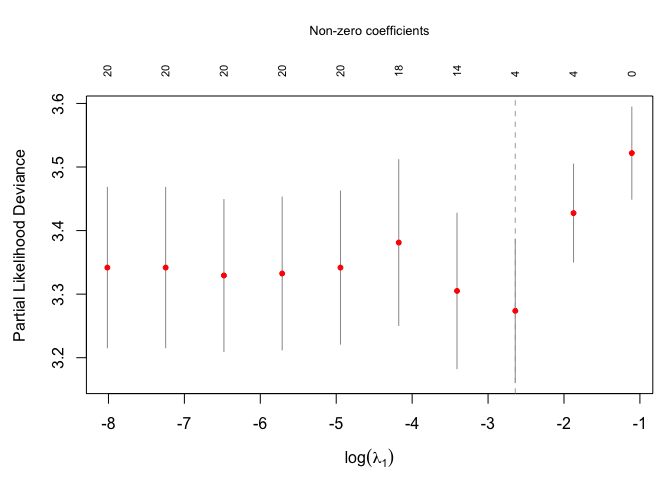
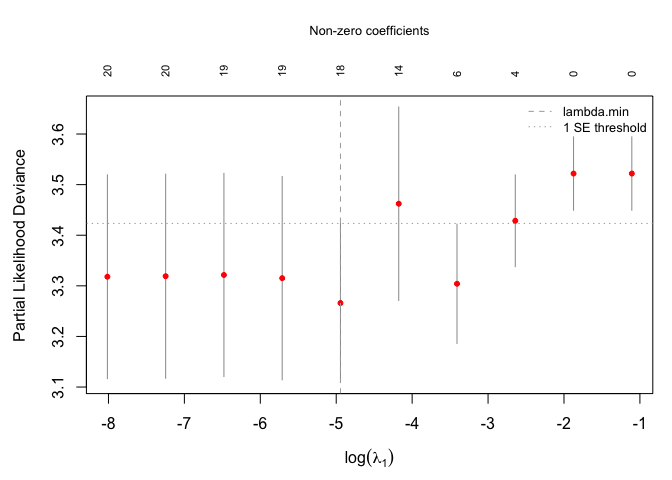
🐛 fix: stabilize ADMM residual convergence

diff --git a/src/threshold_prox.cpp b/src/threshold_prox.cpp
@@ -25,10 +25,10 @@ arma::vec threshold_prox(const arma::vec& y, double vartheta, std::string penalt
       x[i] = soft_threshold(y[i], lambda / vartheta);
     }
   } else if (penalty == "mcp") {
-    double const_val = 1 - 1 / (gamma * vartheta - 1);
+    double denom = 1.0 - 1.0 / (gamma * vartheta);
     for (int i = 0; i < n; i++) {
       if (std::abs(y[i]) <= lambda * gamma) {
-        x[i] = soft_threshold(y[i], lambda / vartheta) * const_val;
+        x[i] = soft_threshold(y[i], lambda / vartheta) / denom;
       } else {
         x[i] = y[i];
       }

diff --git a/README.md b/README.md
@@ -59,17 +59,17 @@ summary(fit)
 #>   n=500, number of events=422
 #> 
 #>       coef exp(coef) se(coef)     z Pr(>|z|)    
-#> X1 0.34587   1.41322  0.05340 6.477 9.34e-11 ***
-#> X2 0.35601   1.42762  0.05403 6.589 4.44e-11 ***
-#> X3 0.34327   1.40956  0.05396 6.362 1.99e-10 ***
-#> X4 0.32658   1.38622  0.05155 6.335 2.37e-10 ***
+#> X1 0.35055   1.41985  0.05352 6.550 5.74e-11 ***
+#> X2 0.35887   1.43171  0.05418 6.623 3.51e-11 ***
+#> X3 0.34424   1.41091  0.05394 6.381 1.76e-10 ***
+#> X4 0.32870   1.38916  0.05164 6.365 1.95e-10 ***
 #> ---
 #> Signif. codes:  0 '***' 0.001 '**' 0.01 '*' 0.05 '.' 0.1 ' ' 1
 #>    exp(coef) exp(-coef) lower .95 upper .95
-#> X1 1.4132    0.7076     1.2728    1.5691   
-#> X2 1.4276    0.7005     1.2842    1.5871   
-#> X3 1.4096    0.7094     1.2681    1.5668   
-#> X4 1.3862    0.7214     1.2530    1.5336   
+#> X1 1.4198    0.7043     1.2785    1.5769   
+#> X2 1.4317    0.6985     1.2875    1.5921   
+#> X3 1.4109    0.7088     1.2694    1.5683   
+#> X4 1.3892    0.7199     1.2554    1.5371   
 #> 
 #> Feature structure:
 #>   Prior transfer: X1, X2
@@ -105,49 +105,49 @@ summary(fit_mtl)
 #>   n=500, number of events=422, df=6
 #> 
 #>          coef exp(coef) se(coef)      z Pr(>|z|)    
-#> X1:1  0.33359   1.39597  0.05163  6.462 1.04e-10 ***
-#> X2:1  0.35172   1.42151  0.05306  6.629 3.38e-11 ***
-#> X3:1  0.34057   1.40575  0.05333  6.386 1.70e-10 ***
-#> X4:1  0.31741   1.37356  0.04987  6.365 1.95e-10 ***
-#> X1:2  0.90022   2.46016  0.08584 10.487  < 2e-16 ***
-#> X2:2  0.90614   2.47476  0.08396 10.793  < 2e-16 ***
-#> X3:2  0.34057   1.40575  0.05333  6.386 1.70e-10 ***
-#> X4:2  0.31741   1.37356  0.04987  6.365 1.95e-10 ***
-#> X1:3 -0.23305   0.79212  0.06983 -3.338 0.000845 ***
-#> X2:3 -0.20271   0.81652  0.07850 -2.582 0.009812 ** 
-#> X3:3  0.34057   1.40575  0.05333  6.386 1.70e-10 ***
-#> X4:3  0.31741   1.37356  0.04987  6.365 1.95e-10 ***
-#> X1:4  0.90022   2.46016  0.08584 10.487  < 2e-16 ***
-#> X2:4  0.90614   2.47476  0.08396 10.793  < 2e-16 ***
-#> X3:4  0.34057   1.40575  0.05333  6.386 1.70e-10 ***
-#> X4:4  0.31741   1.37356  0.04987  6.365 1.95e-10 ***
-#> X1:5 -0.23305   0.79212  0.06983 -3.338 0.000845 ***
-#> X2:5 -0.20271   0.81652  0.07850 -2.582 0.009812 ** 
-#> X3:5  0.34057   1.40575  0.05333  6.386 1.70e-10 ***
-#> X4:5  0.31741   1.37356  0.04987  6.365 1.95e-10 ***
+#> X1:1  0.34795   1.41617  0.05190  6.705 2.02e-11 ***
+#> X2:1  0.36103   1.43481  0.05351  6.746 1.52e-11 ***
+#> X3:1  0.34505   1.41206  0.05345  6.456 1.08e-10 ***
+#> X4:1  0.32770   1.38777  0.05014  6.536 6.32e-11 ***
+#> X1:2  0.94883   2.58268  0.08678 10.934  < 2e-16 ***
+#> X2:2  0.96503   2.62487  0.08449 11.421  < 2e-16 ***
+#> X3:2  0.34505   1.41206  0.05345  6.456 1.08e-10 ***
+#> X4:2  0.32770   1.38777  0.05014  6.536 6.32e-11 ***
+#> X1:3 -0.25292   0.77653  0.06953 -3.637 0.000275 ***
+#> X2:3 -0.24297   0.78430  0.07961 -3.052 0.002272 ** 
+#> X3:3  0.34505   1.41206  0.05345  6.456 1.08e-10 ***
+#> X4:3  0.32770   1.38777  0.05014  6.536 6.32e-11 ***
+#> X1:4  0.94883   2.58268  0.08678 10.934  < 2e-16 ***
+#> X2:4  0.96503   2.62487  0.08449 11.421  < 2e-16 ***
+#> X3:4  0.34505   1.41206  0.05345  6.456 1.08e-10 ***
+#> X4:4  0.32770   1.38777  0.05014  6.536 6.32e-11 ***
+#> X1:5 -0.25292   0.77653  0.06953 -3.637 0.000275 ***
+#> X2:5 -0.24297   0.78430  0.07961 -3.052 0.002272 ** 
+#> X3:5  0.34505   1.41206  0.05345  6.456 1.08e-10 ***
+#> X4:5  0.32770   1.38777  0.05014  6.536 6.32e-11 ***
 #> ---
 #> Signif. codes:  0 '***' 0.001 '**' 0.01 '*' 0.05 '.' 0.1 ' ' 1
 #>      exp(coef) exp(-coef) lower .95 upper .95
-#> X1:1 1.3960    0.7163     1.2616    1.5446   
-#> X2:1 1.4215    0.7035     1.2811    1.5773   
-#> X3:1 1.4057    0.7114     1.2662    1.5606   
-#> X4:1 1.3736    0.7280     1.2457    1.5146   
-#> X1:2 2.4602    0.4065     2.0792    2.9109   
-#> X2:2 2.4748    0.4041     2.0993    2.9174   
-#> X3:2 1.4057    0.7114     1.2662    1.5606   
-#> X4:2 1.3736    0.7280     1.2457    1.5146   
-#> X1:3 0.7921    1.2624     0.6908    0.9083   
-#> X2:3 0.8165    1.2247     0.7001    0.9523   
-#> X3:3 1.4057    0.7114     1.2662    1.5606   
-#> X4:3 1.3736    0.7280     1.2457    1.5146   
-#> X1:4 2.4602    0.4065     2.0792    2.9109   
-#> X2:4 2.4748    0.4041     2.0993    2.9174   
-#> X3:4 1.4057    0.7114     1.2662    1.5606   
-#> X4:4 1.3736    0.7280     1.2457    1.5146   
-#> X1:5 0.7921    1.2624     0.6908    0.9083   
-#> X2:5 0.8165    1.2247     0.7001    0.9523   
-#> X3:5 1.4057    0.7114     1.2662    1.5606   
-#> X4:5 1.3736    0.7280     1.2457    1.5146   
+#> X1:1 1.4162    0.7061     1.2792    1.5678   
+#> X2:1 1.4348    0.6970     1.2919    1.5935   
+#> X3:1 1.4121    0.7082     1.2716    1.5680   
+#> X4:1 1.3878    0.7206     1.2579    1.5311   
+#> X1:2 2.5827    0.3872     2.1787    3.0615   
+#> X2:2 2.6249    0.3810     2.2243    3.0976   
+#> X3:2 1.4121    0.7082     1.2716    1.5680   
+#> X4:2 1.3878    0.7206     1.2579    1.5311   
+#> X1:3 0.7765    1.2878     0.6776    0.8899   
+#> X2:3 0.7843    1.2750     0.6710    0.9167   
+#> X3:3 1.4121    0.7082     1.2716    1.5680   
+#> X4:3 1.3878    0.7206     1.2579    1.5311   
+#> X1:4 2.5827    0.3872     2.1787    3.0615   
+#> X2:4 2.6249    0.3810     2.2243    3.0976   
+#> X3:4 1.4121    0.7082     1.2716    1.5680   
+#> X4:4 1.3878    0.7206     1.2579    1.5311   
+#> X1:5 0.7765    1.2878     0.6776    0.8899   
+#> X2:5 0.7843    1.2750     0.6710    0.9167   
+#> X3:5 1.4121    0.7082     1.2716    1.5680   
+#> X4:5 1.3878    0.7206     1.2579    1.5311   
 #> 
 #> Global centers (w):
 #>    1   2   3   4   5  
@@ -181,17 +181,17 @@ summary(fit2)
 #>   n=500, number of events=422
 #> 
 #>       coef exp(coef) se(coef)     z Pr(>|z|)    
-#> X1 0.34289   1.40901  0.06213 5.519 3.40e-08 ***
-#> X2 0.35743   1.42965  0.06567 5.443 5.24e-08 ***
-#> X3 0.34416   1.41081  0.05408 6.364 1.96e-10 ***
-#> X4 0.32464   1.38354  0.05097 6.370 1.90e-10 ***
+#> X1 0.34612   1.41357  0.06219 5.565 2.62e-08 ***
+#> X2 0.35968   1.43287  0.06571 5.473 4.42e-08 ***
+#> X3 0.34534   1.41247  0.05409 6.384 1.72e-10 ***
+#> X4 0.32688   1.38663  0.05105 6.403 1.52e-10 ***
 #> ---
 #> Signif. codes:  0 '***' 0.001 '**' 0.01 '*' 0.05 '.' 0.1 ' ' 1
 #>    exp(coef) exp(-coef) lower .95 upper .95
-#> X1 1.4090    0.7097     1.2475    1.5915   
-#> X2 1.4296    0.6995     1.2570    1.6260   
-#> X3 1.4108    0.7088     1.2689    1.5685   
-#> X4 1.3835    0.7228     1.2520    1.5289   
+#> X1 1.4136    0.7074     1.2514    1.5968   
+#> X2 1.4329    0.6979     1.2597    1.6298   
+#> X3 1.4125    0.7080     1.2704    1.5705   
+#> X4 1.3866    0.7212     1.2546    1.5326   
 #> 
 #> Feature structure:
 #>   Prior [tissue_A,tissue_B]: X1, X2
@@ -222,11 +222,11 @@ cv_fit
 #> 
 #> Measure: Partial Likelihood Deviance
 #> 
-#> lambda.min:  l1=0.0713  l2=0.0559  l3=0.2154
-#>   Deviance:  3.2737 (+/- 0.1128)   Non-zero: 4
+#> lambda.min:  l1=0.0071  l2=0.0120  l3=0.0215
+#>   Deviance:  3.2660 (+/- 0.1572)   Non-zero: 18
 #> 
-#> lambda.1se:  l1=0.0713  l2=0.0559  l3=0.2154
-#>   Deviance:  3.2737 (+/- 0.1128)   Non-zero: 4
+#> lambda.1se:  l1=0.0713  l2=0.0259  l3=2e-04
+#>   Deviance:  3.4043 (+/- 0.1401)   Non-zero: 4
 ```
 
 The CV curve along the `lambda1` axis (with `lambda2` and `lambda3`
@@ -247,29 +247,57 @@ model.
 summary(cv_fit$coxtrans.fit)
 #> Call:
 #> coxtrans(formula = formula, data = data, group = group, target = target, 
-#>     lambda1 = lambda_min$lambda1, lambda2 = lambda_min$lambda2, 
-#>     lambda3 = lambda_min$lambda3, prior_matrix = prior_matrix, 
-#>     penalty = penalty, control = control)
+#>     lambda1 = lam$lambda1, lambda2 = lam$lambda2, lambda3 = lam$lambda3, 
+#>     prior_matrix = prior_matrix, penalty = penalty, control = control)
 #> 
 #>   n=500, number of events=422
 #> 
-#>       coef exp(coef) se(coef)     z Pr(>|z|)    
-#> X1 0.33651   1.40006  0.05321 6.324 2.54e-10 ***
-#> X2 0.35245   1.42255  0.05377 6.554 5.59e-11 ***
-#> X3 0.34137   1.40687  0.05398 6.324 2.54e-10 ***
-#> X4 0.32244   1.38050  0.05138 6.276 3.48e-10 ***
+#>          coef exp(coef)  se(coef)      z Pr(>|z|)    
+#> X1   0.376677  1.457434  0.066869  5.633 1.77e-08 ***
+#> X2   0.414787  1.514049  0.067305  6.163 7.15e-10 ***
+#> X3   0.329046  1.389641  0.075007  4.387 1.15e-05 ***
+#> X4   0.367069  1.443497  0.082051  4.474 7.69e-06 ***
+#> X5  -0.042886  0.958020  0.062711 -0.684  0.49406    
+#> X6   0.006053  1.006071  0.056720  0.107  0.91502    
+#> X7   0.185231  1.203497  0.065631  2.822  0.00477 ** 
+#> X8   0.054851  1.056383  0.072063  0.761  0.44657    
+#> X9   0.059147  1.060931  0.065391  0.905  0.36572    
+#> X10 -0.318969  0.726898  0.109410 -2.915  0.00355 ** 
+#> X12 -0.254036  0.775664  0.108472 -2.342  0.01918 *  
+#> X13 -0.156053  0.855514  0.096408 -1.619  0.10552    
+#> X14  0.063882  1.065966  0.080142  0.797  0.42539    
+#> X15  0.053287  1.054732  0.059468  0.896  0.37022    
+#> X16 -0.060031  0.941735  0.060498 -0.992  0.32106    
+#> X17  0.025616  1.025947  0.060715  0.422  0.67310    
+#> X19  0.051585  1.052939  0.072417  0.712  0.47626    
+#> X20 -0.085512  0.918042  0.062834 -1.361  0.17354    
 #> ---
 #> Signif. codes:  0 '***' 0.001 '**' 0.01 '*' 0.05 '.' 0.1 ' ' 1
-#>    exp(coef) exp(-coef) lower .95 upper .95
-#> X1 1.4001    0.7143     1.2614    1.5540   
-#> X2 1.4226    0.7030     1.2803    1.5807   
-#> X3 1.4069    0.7108     1.2656    1.5639   
-#> X4 1.3805    0.7244     1.2482    1.5268   
+#>     exp(coef) exp(-coef) lower .95 upper .95
+#> X1  1.4574    0.6861     1.2784    1.6615   
+#> X2  1.5140    0.6605     1.3269    1.7275   
+#> X3  1.3896    0.7196     1.1997    1.6097   
+#> X4  1.4435    0.6928     1.2291    1.6953   
+#> X5  0.9580    1.0438     0.8472    1.0833   
+#> X6  1.0061    0.9940     0.9002    1.1244   
+#> X7  1.2035    0.8309     1.0582    1.3687   
+#> X8  1.0564    0.9466     0.9172    1.2166   
+#> X9  1.0609    0.9426     0.9333    1.2060   
+#> X10 0.7269    1.3757     0.5866    0.9007   
+#> X12 0.7757    1.2892     0.6271    0.9594   
+#> X13 0.8555    1.1689     0.7082    1.0335   
+#> X14 1.0660    0.9381     0.9110    1.2473   
+#> X15 1.0547    0.9481     0.9387    1.1851   
+#> X16 0.9417    1.0619     0.8364    1.0603   
+#> X17 1.0259    0.9747     0.9108    1.1556   
+#> X19 1.0529    0.9497     0.9136    1.2135   
+#> X20 0.9180    1.0893     0.8117    1.0384   
 #> 
 #> Feature structure:
 #>   Prior transfer: X1, X2
-#>   Shared (local): X3, X4
-#>   Sparse (zero) : 16 features (X5, X6, X7, ...)
+#>   Shared (local): X6, X15
+#>   Partial shared: X3, X4, X5, X7, X8, X9, X11, X13, X14, X16, X17, X18, X19, X20
+#>   Group-specific: X10, X12
 ```
 
 ### Baseline hazard
